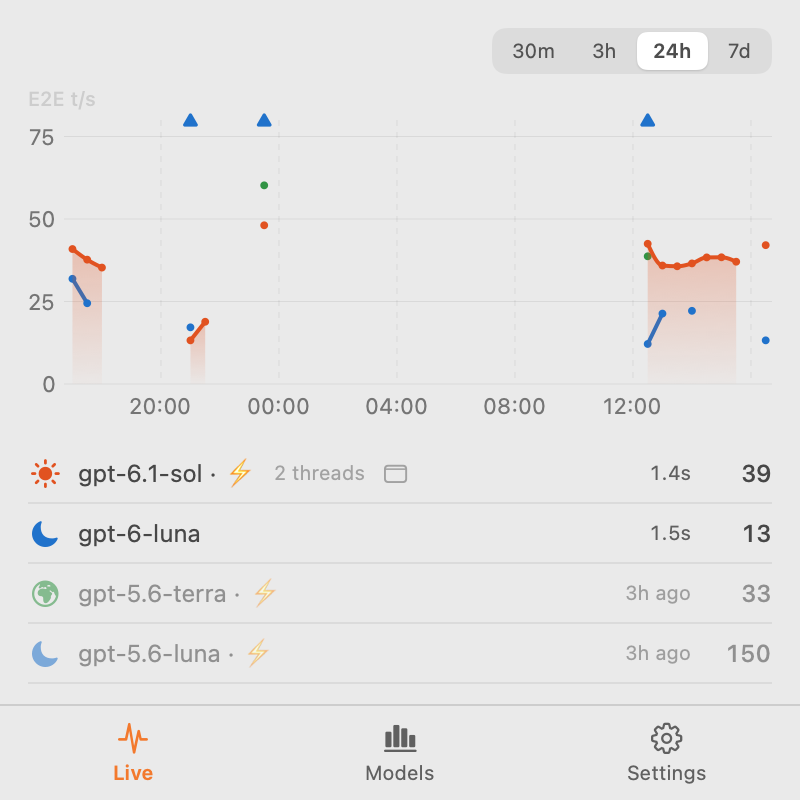
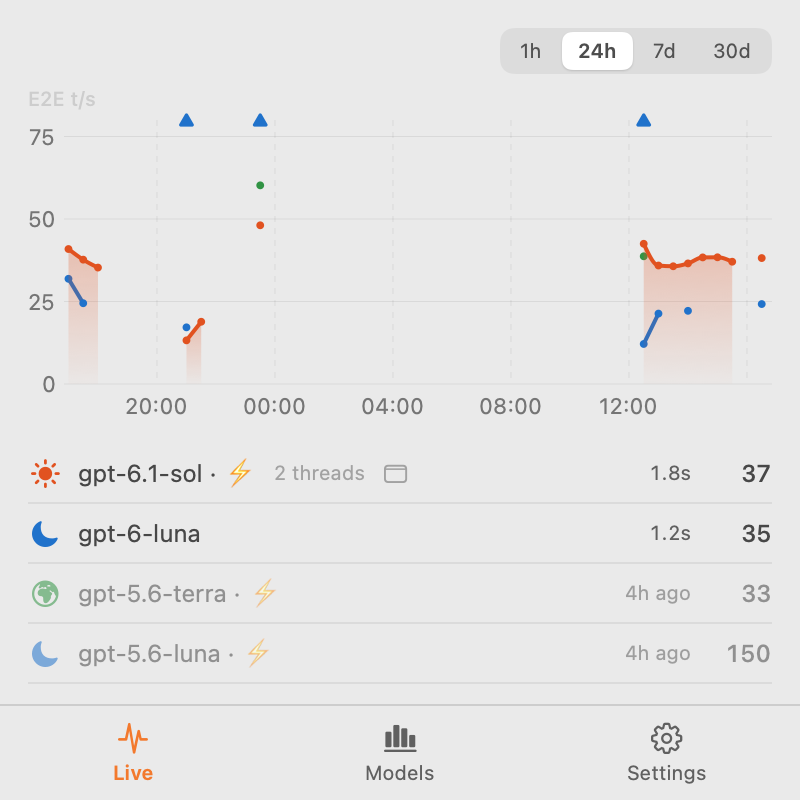
feat: offer the Models ranges (1h, 24h, 7d, 30d) on Live too
Chart buckets of an hour or more now start on local clock boundaries,
so a 30-day point is a local day and its hover label is just the date.

diff --git a/Sources/CodexTPS/Popover.swift b/Sources/CodexTPS/Popover.swift
@@ -265,7 +265,7 @@ private struct NowChart: View {
         VStack(alignment: .leading, spacing: 6) {
             HStack {
                 Spacer()
-                Segmented(options: ChartSelection.nowRanges, title: \.title, selected: range) { selection.range = $0 }
+                Segmented(options: ChartSelection.ranges, title: \.title, selected: range) { selection.range = $0 }
             }
             Chart {
                 ForEach(model.points) { p in
@@ -292,7 +292,8 @@ private struct NowChart: View {
                         .foregroundStyle(Color.secondary.opacity(0.5))
                         .lineStyle(StrokeStyle(lineWidth: 1))
                         .annotation(position: .trailing, alignment: .top, spacing: 3, overflowResolution: .init(x: .fit(to: .plot), y: .fit(to: .plot))) {
-                            Text(b.formatted(range.showsDate ? .dateTime.month(.abbreviated).day().hour().minute() : .dateTime.hour().minute()))
+                            Text(b.formatted(range.bucket >= 86400 ? .dateTime.month(.abbreviated).day()
+                                : range.showsDate ? .dateTime.month(.abbreviated).day().hour().minute() : .dateTime.hour().minute()))
                                 .font(.caption2.monospacedDigit())
                                 .foregroundStyle(.secondary)
                                 .padding(.horizontal, 3)
@@ -364,7 +365,7 @@ struct CompareTab: View {
                     .font(.caption)
                     .foregroundStyle(.secondary)
                 Spacer()
-                Segmented(options: ChartSelection.compareRanges, title: \.title, selected: range) { selection.compareRange = $0 }
+                Segmented(options: ChartSelection.ranges, title: \.title, selected: range) { selection.compareRange = $0 }
             }
 
             if rows.isEmpty {

diff --git a/Sources/CodexTPS/Components.swift b/Sources/CodexTPS/Components.swift
@@ -79,8 +79,8 @@ final class ChartSelection {
         }
     }
 
-    static let nowRanges: [ChartRange] = [.m30, .h3, .h24, .d7]
-    static let compareRanges: [ChartRange] = [.h1, .h24, .d7, .d30]
+    /// Ranges offered on both Live and Models.
+    static let ranges: [ChartRange] = [.h1, .h24, .d7, .d30]
 
     /// Settings is not remembered, so the popover reopens on data.
     var tab = Tab(rawValue: UserDefaults.standard.string(forKey: "tab") ?? "").flatMap { $0 == .settings ? nil : $0 } ?? .live {
@@ -88,13 +88,13 @@ final class ChartSelection {
     }
     /// Hovered chart bucket on the Now tab.
     var bucket: Date?
-    var range: ChartRange = ChartSelection.stored("chartRange", in: nowRanges, default: .m30) {
+    var range: ChartRange = ChartSelection.stored("chartRange", in: ranges, default: .h1) {
         didSet {
             bucket = nil
             UserDefaults.standard.set(range.rawValue, forKey: "chartRange")
         }
     }
-    var compareRange: ChartRange = ChartSelection.stored("compareRange", in: compareRanges, default: .h24) {
+    var compareRange: ChartRange = ChartSelection.stored("compareRange", in: ranges, default: .h24) {
         didSet { UserDefaults.standard.set(compareRange.rawValue, forKey: "compareRange") }
     }
 

diff --git a/Sources/CodexTPS/Snapshot.swift b/Sources/CodexTPS/Snapshot.swift
@@ -47,9 +47,9 @@ enum Snapshot {
         let dark = args.contains("dark")
         waitUntilLoaded(stats) {
             if let tab = ChartSelection.Tab.allCases.first(where: { args.contains($0.rawValue) }) { selection.tab = tab }
-            if let r = ChartRange.allCases.first(where: { args.contains($0.rawValue) }) {
-                if ChartSelection.nowRanges.contains(r) { selection.range = r }
-                if ChartSelection.compareRanges.contains(r) { selection.compareRange = r }
+            if let r = ChartSelection.ranges.first(where: { args.contains($0.rawValue) }) {
+                selection.range = r
+                selection.compareRange = r
             }
             if let b = stats.chartModel(selection.range, speed: tray.speed).points.last?.bucket, args.contains("hover") { selection.bucket = b }
             if args.contains("tray") {

diff --git a/Sources/CodexTPS/Stats.swift b/Sources/CodexTPS/Stats.swift
@@ -98,8 +98,10 @@ enum ChartRange: String, CaseIterable, Identifiable {
         return out
     }
 
+    /// Buckets of an hour or more start on local clock boundaries (days at local midnight), like the ticks.
     func bucketStart(_ date: Date) -> Date {
-        Date(timeIntervalSince1970: (date.timeIntervalSince1970 / bucket).rounded(.down) * bucket)
+        let offset = bucket >= 3600 ? TimeInterval(TimeZone.current.secondsFromGMT(for: date)) : 0
+        return Date(timeIntervalSince1970: ((date.timeIntervalSince1970 + offset) / bucket).rounded(.down) * bucket - offset)
     }
 }
 

diff --git a/README.md b/README.md
@@ -8,7 +8,7 @@ macOS menu bar app that shows how fast Codex models generate: output tokens per 
 </p>
 
 - **Menu bar**: model and speed of one series, e.g. `⚡ 6.1-sol 50 t/s`: the pinned series, or else the one generating the most tokens lately, each response counting half as much for every 5 minutes of age (the same series the Live list starts with). A pin silent for an hour gives way while another series answers. A 1-minute token-weighted average by default, or 5 minutes, or the latest response. After 2 minutes without responses the value turns grey with its age (`6.1-sol 47 t/s · 12m`); after an hour only an icon remains. During a pause it keeps the last value instead of blanking.
-- **Live**: a chart of the series over 30m / 3h / 24h / 7d (a few points far above the rest sit on the top edge as triangles, so they do not flatten the lines) and the series list: the menu bar series first, then the ones answering now, each with its 1-minute speed and TTFT. Hovering the chart switches the list to the series with a value at that moment; a click on a series pins it to the menu bar.
+- **Live**: a chart of the series over 1h / 24h / 7d / 30d (a few points far above the rest sit on the top edge as triangles, so they do not flatten the lines) and the series list: the menu bar series first, then the ones answering now, each with its 1-minute speed and TTFT. Hovering the chart switches the list to the series with a value at that moment; a click on a series pins it to the menu bar.
 - **Models**: series ranked by median per-response speed over 1h / 24h / 7d / 30d, with a p10–p90 bar and median TTFT.
 - **Settings**: E2E or decode speed, menu bar metric, split by reasoning effort, launch at login, Codex telemetry setup.
 
@@ -64,7 +64,7 @@ open build/CodexTPS.app
 
 For development:
 
-- `CodexTPS --snapshot out.png [live|models|settings] [dark] [hover] [tray] [idle=<s>] [m30|h3|h24|d7|h1|d30]` renders the popover through an offscreen AppKit window and exits; the screenshots above come from it.
+- `CodexTPS --snapshot out.png [live|models|settings] [dark] [hover] [tray] [idle=<s>] [h1|h24|d7|d30]` renders the popover through an offscreen AppKit window and exits; the screenshots above come from it.
 - `CodexTPS --bench [groups]` reports the load time and per-series totals.
 
 ## Releases
